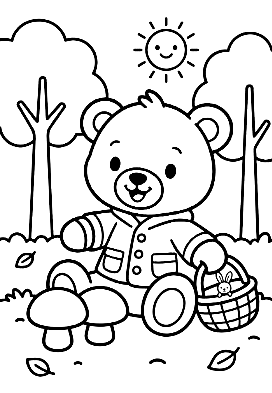
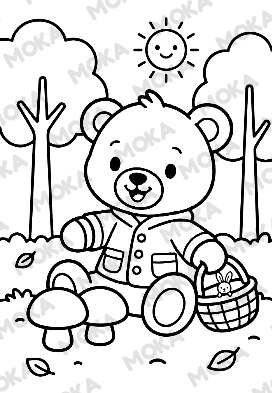
Filigrane « MOKA » sur tous les visuels des coloriages
- Les 18 planches des packs et les 4 dessins à colorier (traits, coffret) portent le motif MOKA en diagonale
- outils/filigraner.py refait les images filigranées à partir des originaux
- Les originaux sans filigrane restent sur l'ordinateur (dossier originaux/, ignoré par Git)

Claude-Session: https://claude.ai/code/session_01TGzeoCJuxthFRb6RHU2zNZ

diff --git a/outils/filigraner.py b/outils/filigraner.py
@@ -1,0 +1,74 @@
+# Filigrane « MOKA » sur les visuels des coloriages du site.
+# Usage : depuis le dossier du projet, lancer  python3 outils/filigraner.py
+#
+# Les ORIGINAUX (sans filigrane) sont dans  originaux/  : c'est là qu'on ajoute ou remplace un dessin.
+#   originaux/coloriages/    -> public/assets/coloriages/   (les planches des packs)
+#   originaux/illustrations/ -> public/assets/img/          (les autres dessins à colorier : traits, coffret…)
+# Le script réécrit chaque image filigranée à l'endroit que le site affiche.
+# Les PDF vendus ne sont pas concernés : ils restent sans filigrane.
+# Il faut Pillow :  python3 -m pip install Pillow
+import os, sys
+from PIL import Image, ImageDraw, ImageFont
+
+RACINE = os.path.dirname(os.path.dirname(os.path.abspath(__file__)))
+DOSSIERS = [
+    (os.path.join(RACINE, "originaux", "coloriages"), os.path.join(RACINE, "public", "assets", "coloriages")),
+    (os.path.join(RACINE, "originaux", "illustrations"), os.path.join(RACINE, "public", "assets", "img")),
+]
+POLICE = os.path.join(RACINE, "outils", "fredoka-700.ttf")
+
+TEXTE = "MOKA"
+OPACITE = 0.12      # 0 = invisible, 1 = noir plein
+ANGLE = 30          # inclinaison du motif, en degrés
+TAILLE = 0.085      # hauteur du texte, en part de la largeur de l'image
+ECART_X = 0.115     # espace entre deux mots sur une ligne
+ECART_Y = 0.085     # espace entre deux lignes
+ENCRE = (24, 24, 24)
+# Dessins en trait blanc sur fond sombre : filigrane blanc
+ENCRE_CLAIRE = {"moka-coffret.png": (255, 255, 255)}
+
+
+def filigraner(chemin_src, chemin_dst, encre=ENCRE):
+    img = Image.open(chemin_src)
+    mode = img.mode
+    base = img.convert("RGBA")
+    w, h = base.size
+    taille = max(10, round(w * TAILLE))
+    police = ImageFont.truetype(POLICE, taille)
+    tw = police.getbbox(TEXTE)[2]
+    pas_x = tw + round(w * ECART_X)
+    pas_y = taille + round(w * ECART_Y)
+
+    # calque assez grand pour couvrir l'image une fois tourné
+    d = int((w ** 2 + h ** 2) ** 0.5) + 2 * pas_x
+    calque = Image.new("RGBA", (d, d), (0, 0, 0, 0))
+    dessin = ImageDraw.Draw(calque)
+    alpha = round(255 * OPACITE)
+    for k, y in enumerate(range(-pas_y, d + pas_y, pas_y)):
+        decalage = (pas_x // 2) if k % 2 else 0
+        for x in range(-pas_x + decalage, d + pas_x, pas_x):
+            dessin.text((x, y), TEXTE, font=police, fill=encre + (alpha,))
+    calque = calque.rotate(ANGLE, resample=Image.BICUBIC)
+    g, t = (d - w) // 2, (d - h) // 2
+    calque = calque.crop((g, t, g + w, t + h))
+
+    res = Image.alpha_composite(base, calque)
+    if mode == "L":
+        res = res.convert("L")
+    elif mode != "RGBA":
+        res = res.convert("RGB")
+    res.save(chemin_dst, optimize=True)
+
+
+if __name__ == "__main__":
+    faits = []
+    for source, sortie in DOSSIERS:
+        if not os.path.isdir(source):
+            print("(dossier absent, ignoré :", source + ")")
+            continue
+        os.makedirs(sortie, exist_ok=True)
+        for nom in sorted(os.listdir(source)):
+            if nom.lower().endswith(".png"):
+                filigraner(os.path.join(source, nom), os.path.join(sortie, nom), ENCRE_CLAIRE.get(nom, ENCRE))
+                faits.append(nom)
+    print(len(faits), "images filigranées :", ", ".join(faits))
